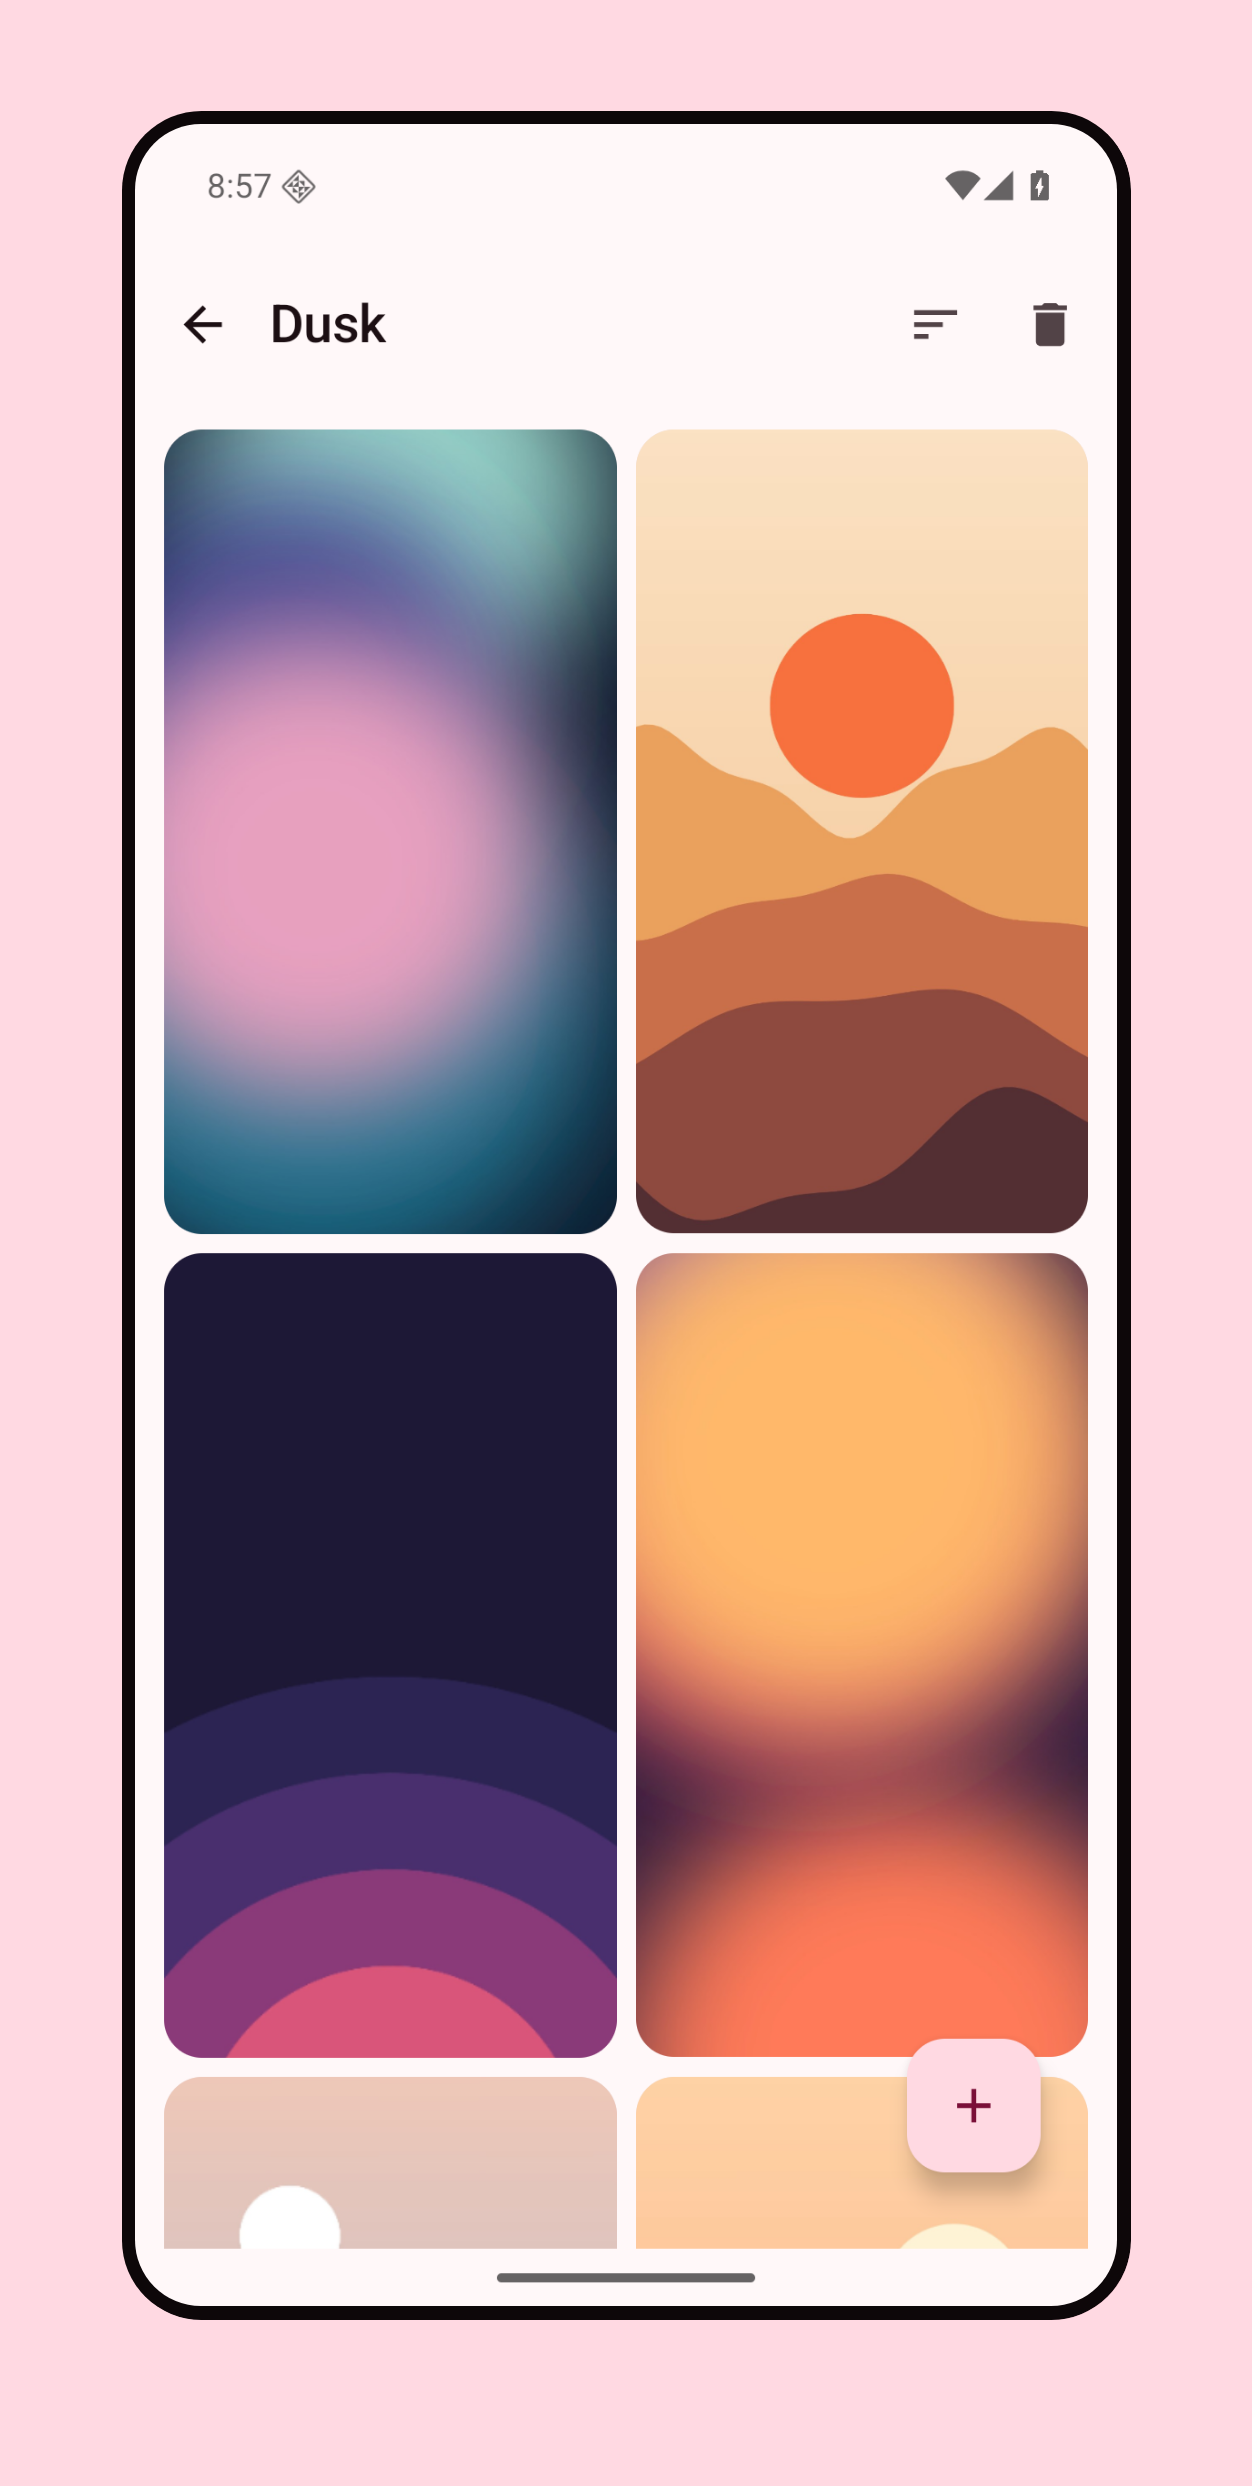
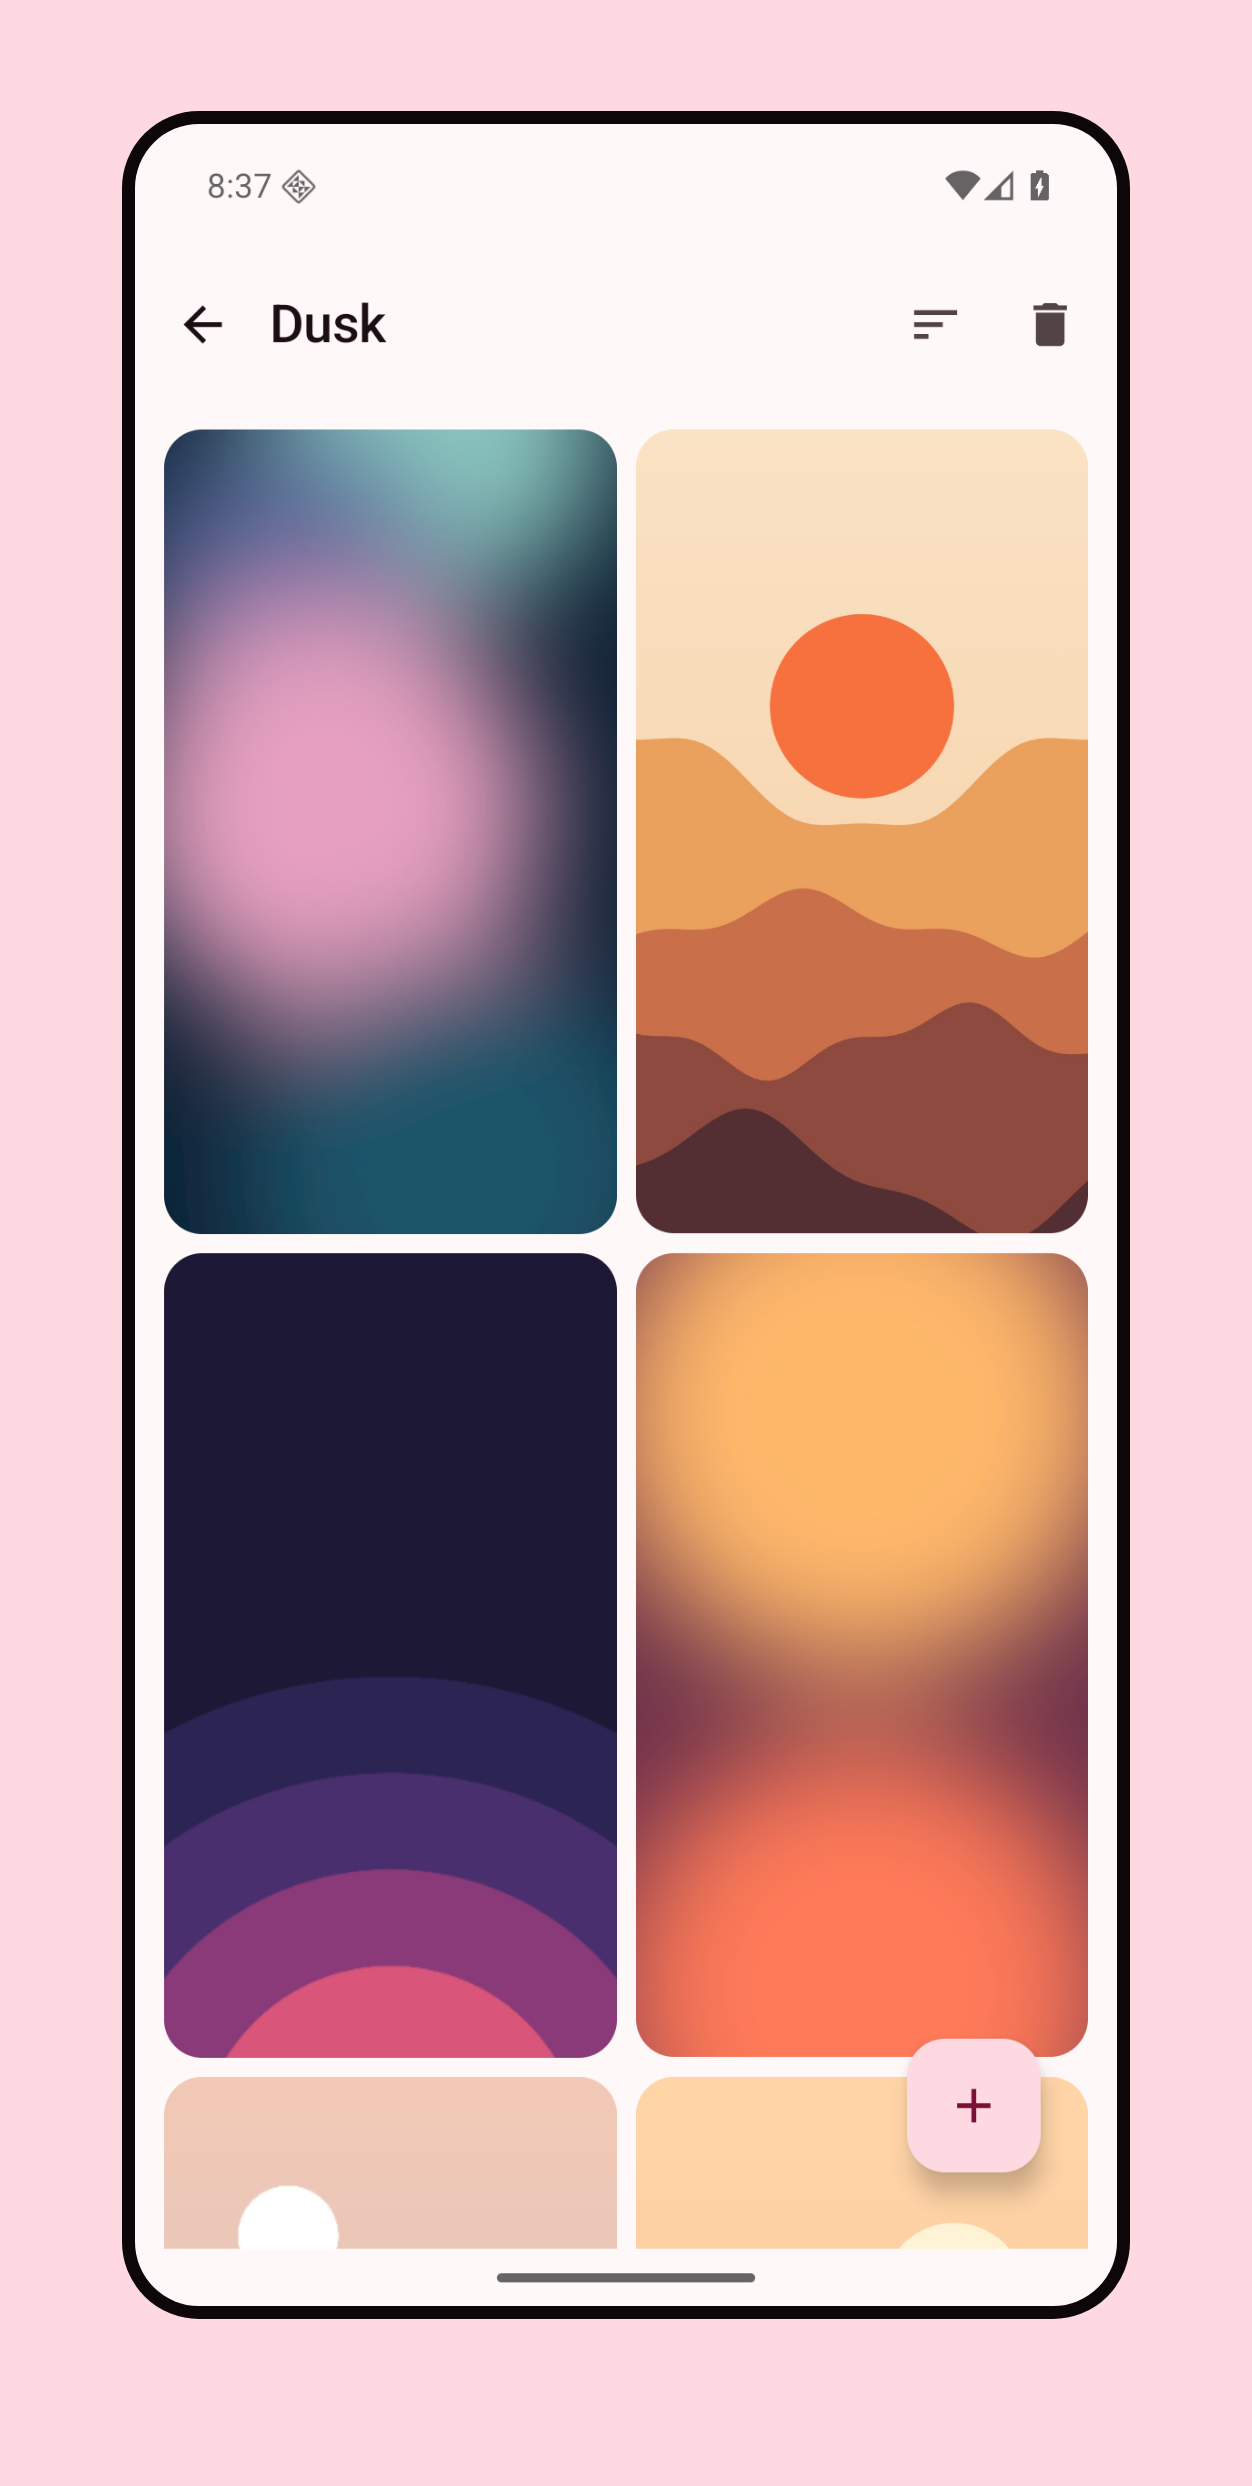
docs: rebuild the readme, site and store images from the media branch
The images are now generated from committed emulator captures and demo wallpapers on media, so they can be rebuilt. The fresh captures show a different clock time.

diff --git a/AGENTS.md b/AGENTS.md
@@ -69,7 +69,8 @@ An Android app that changes the home and lock screen wallpaper on a schedule: Ko
 - A pushed `v*` tag is the store submission. F-Droid picks the tag up by itself as soon as it is pushed, builds it, and compares its build with the release APK. CI attaches the signed `paperize-vX.Y.Z.apk` to the draft release for that tag, reusing a draft that already has the notes, but the APK is not public while the release is a draft: publish the draft as soon as CI has attached the APK, or the F-Droid comparison fails and has to be retried. Never rename a tag or asset.
 - Title `Paperize X.Y.Z`.
 - Notes: banner image first, then `### New`, `### Improved`, `### Fixed` (only those that apply). One line per change, written for users; no internals, dependency lists or test counts. End with the install links (APK, F-Droid, IzzyOnDroid) and the full changelog link.
-- Banner: on the `media` branch, `node banner.cjs vX.Y.Z "short highlight"` (needs Playwright) writes `releases/vX.Y.Z.png`; push it and use `https://raw.githubusercontent.com/Anthonyy232/Paperize/media/releases/vX.Y.Z.png`.
+- Banner: generated and hosted on the orphan `media` branch; use `https://raw.githubusercontent.com/Anthonyy232/Paperize/media/releases/vX.Y.Z.png`.
+- The README, site and store listing images are built on the `media` branch too, from emulator captures; its README has the steps for both.
 - The site in `site/` hosts the privacy policy the store listing links to at `#privacy`; keep that anchor.
 
 ## Agents
